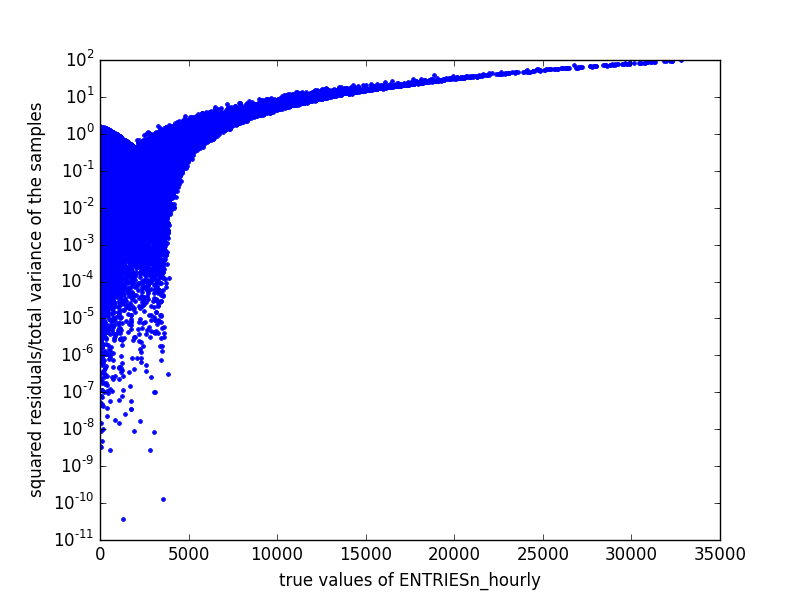
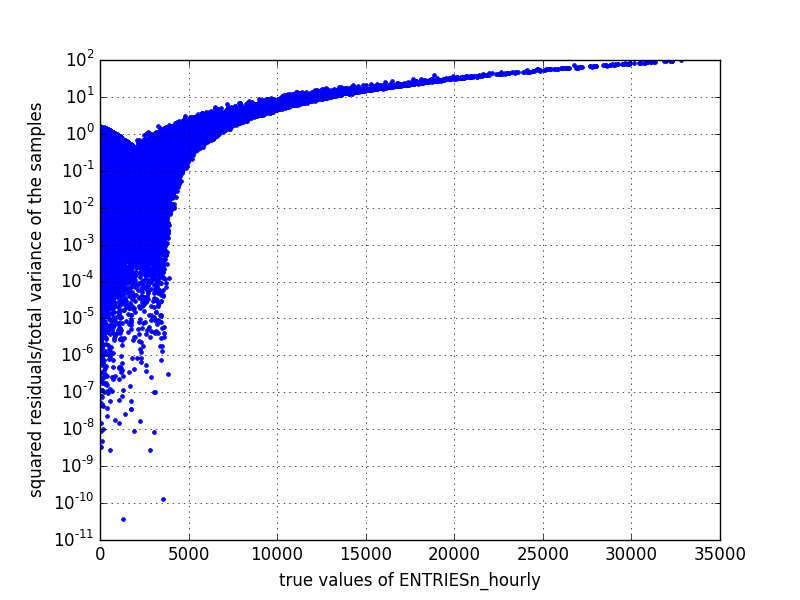
clean the script of linear regression

diff --git a/P1 New York Subway/linreg_analysis.py b/P1 New York Subway/linreg_analysis.py
@@ -1,28 +1,23 @@
 import pandas
 import numpy as np
-import copy
-from linreg import normalize_features,print_theta
+from linreg import normalize_features,print_theta,plot_indvidual_residuals,plot_residuals_hist
 from sklearn.linear_model import Lasso,LinearRegression,RidgeCV,Ridge,SGDRegressor
 import matplotlib.pyplot as plt
-from sklearn.ensemble import RandomForestRegressor
 from sklearn.cross_validation import cross_val_score,KFold
 
 raw_dataframe=pandas.read_csv("./data/improved-dataset/turnstile_weather_v2.csv")
-
-dataframe=raw_dataframe.loc[raw_dataframe["ENTRIESn_hourly"]<100000,:]
-
+#dataframe=raw_dataframe.loc[raw_dataframe["ENTRIESn_hourly"]<100000,:]
+dataframe=raw_dataframe
 print(raw_dataframe.shape[0])
 print(raw_dataframe.columns)
-#dataframe=raw_dataframe
+
 
 selected_features=['rain','tempi','fog','pressurei','wspdi', 'meanpressurei', 'meantempi',\
                    'meanwspdi']
 
-#selected_features=['rain']
 
 features_to_dummy=['hour','conds']
 
-#features_to_dummy=[]
 
 # Select Features (try different features!)
 features = dataframe[[f for f in selected_features if f not in features_to_dummy]]
@@ -50,7 +45,6 @@ values_array=np.array(values)
 
 
 #la=RidgeCV(alphas=[0.01,0.1,1,10])
-
 #la=SGDRegressor(loss="squared_loss",alpha=0.1,penalty='l1')
 la=LinearRegression()
 la.fit(features_array,values_array)
@@ -65,20 +59,18 @@ print("coefficient of rain:%s"%str(la.coef_[0]))
 
 predict_array=la.predict(features_array)
 
-res=np.power(predict_array-values_array,2)
-
-#plt.semilogy(values_array,res,'.')
-r_var=np.var(values_array)
-plt.hist(res/r_var,bins=1000)
-
+plt=plot_indvidual_residuals(predict_array,values_array)
+plt.savefig("resplot.png")
+plt.show()
 plt.close()
 
-plt.semilogy(values_array,res/r_var,'.')
-plt.xlabel("true values of ENTRIESn_hourly")
-plt.ylabel("squared residuals/total variance of the samples")
-plt.savefig("resplot.png")
-
+plot=plot_residuals_hist(predict_array,values_array)
+plt.savefig("resplot_hist.png")
 plt.show()
+plt.close()
+
+
+# Run cross validation
 kf_total = KFold(dataframe.shape[0], n_folds=5)
 
 a=cross_val_score(la,features_array,values_array,cv=kf_total)

diff --git a/P1 New York Subway/linreg.py b/P1 New York Subway/linreg.py
@@ -268,6 +268,32 @@ def plot_residuals(turnstile_weather, predictions):
     (turnstile_weather["ENTRIESn_hourly"] - predictions).hist()
     return plt
 
+def plot_indvidual_residuals(pred_array,true_array):
+
+
+    res=np.power(pred_array-true_array,2)
+
+    r_var=np.var(true_array)
+
+    plt.figure()
+    plt.semilogy(true_array,res/r_var,'.')
+    plt.xlabel("true values of ENTRIESn_hourly")
+    plt.ylabel("squared residuals/total variance of the samples")
+    plt.grid()
+    return plt
+
+def plot_residuals_hist(pred_array, true_array,power=1):
+
+
+    res=np.power(pred_array-true_array,power)
+    #r_var=np.sqrt(np.var(true_array))
+    plt.figure()
+    plt.hist(res,bins=100)
+    plt.xlabel("residuals")
+    plt.ylabel("frequency")
+    plt.grid()
+    return plt
+
 
 def print_theta(feature_names,coef):
     for i,fid in enumerate(feature_names):

diff --git a/P1 New York Subway/Analyzing the NYC Subway Dataset.md b/P1 New York Subway/Analyzing the NYC Subway Dataset.md
@@ -14,12 +14,12 @@ This document addresses part 2 of the project. Please use this document as a tem
 
 We use Mann-Whitney U Test to compare the ridership of NYC subway at rainy and non-rainy days.
 In this test, we choose the column ```ENTRIESn_hourly``` as the response and the column ```rain``` as the feature.
-We used a two-tailed test because our goal is to know whether the population of ```ENTRIESn_hourly``` in rainy and non-rainy days differ from each other. The null hypothesis is that the samples of ```ENTRIES_hourly``` at rainy and non-rainy days come from the same population[3]. The p-critical value is chosen to be 0.05.
+We used a two-tailed test because our goal is to know whether the population of ```ENTRIESn_hourly``` in rainy and non-rainy days differ from each other. The null hypothesis is that the samples of ```ENTRIESn_hourly``` at rainy and non-rainy days come from the same population. The p-critical value is chosen to be 0.05.
 
 **1.2 Why is this statistical test applicable to the dataset? In particular, consider the assumptions that the test is making about the distribution of ridership in the two samples.**
 
-Mann-Whitney U-Test is applicable to the dataset because the distribution of ```ENTRIES_hourly``` is non-normal, as shown in the histogram plotted in Section 3.1. Therefore, 
-Also, this dataset conforms the underlying assumptions of Mann-Whitney U-Test: [1]
+Mann-Whitney U-Test is applicable to the dataset because the distribution of ```ENTRIESn_hourly``` is non-normal, as shown in the histogram plotted in Section 3.1. Therefore, 
+Also, this dataset conforms the underlying assumptions of Mann-Whitney U-Test:
 - The feature to be analyzed is ordinal and only has two groups.
 - Each entries of the data is independent.
 - The response is continuous.
@@ -108,7 +108,6 @@ This R2 value means that the ratio of summed residual and variance of ```ENTRIES
 ![entries_hist](resplot.png)
 
 The figure shows that this model predicts ```ENTRIESn_hourly``` better when the values of ```ENTRIESn_hourly``` is small. As ```ENTRIESn_hourly``` increases, the residuals becomes very large. This result indicates the model is not able to predict extreme cases of ```ENTRIESn_hourly```.
-
 
 
 ## Section 3. Visualization
